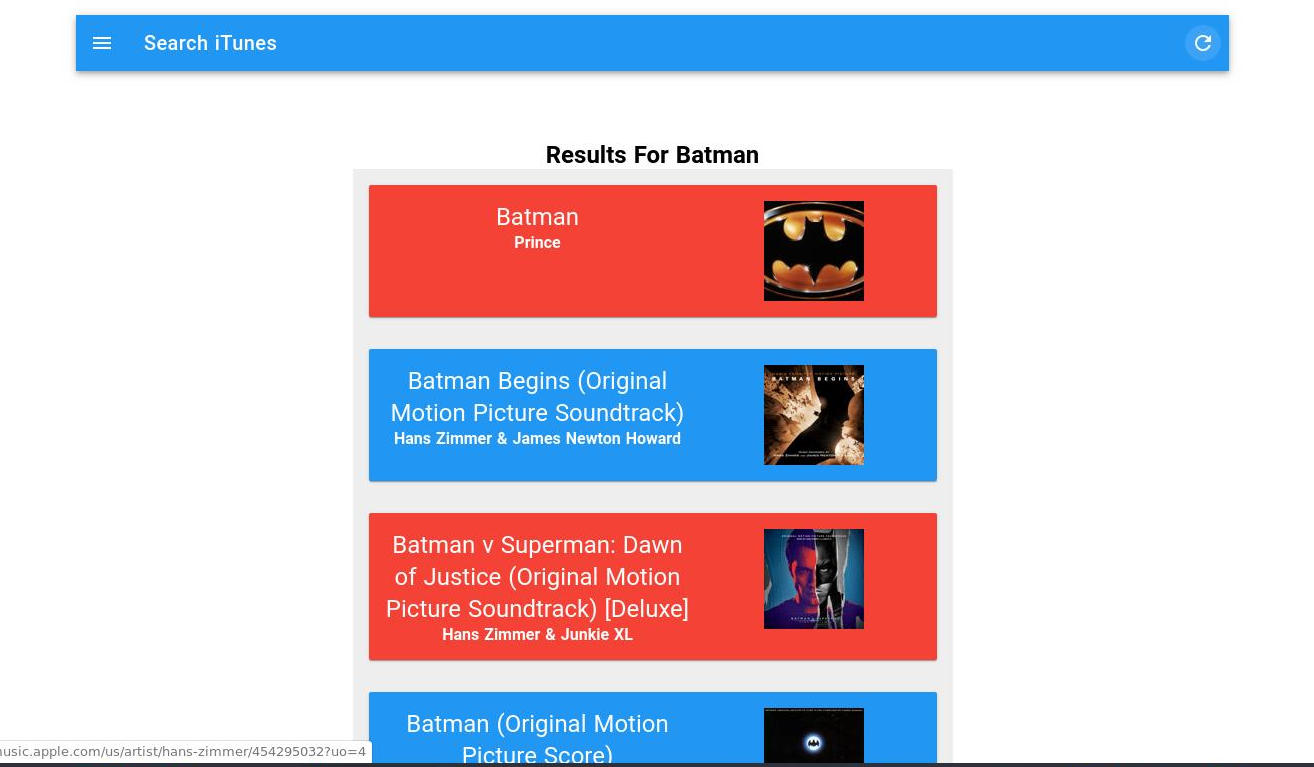
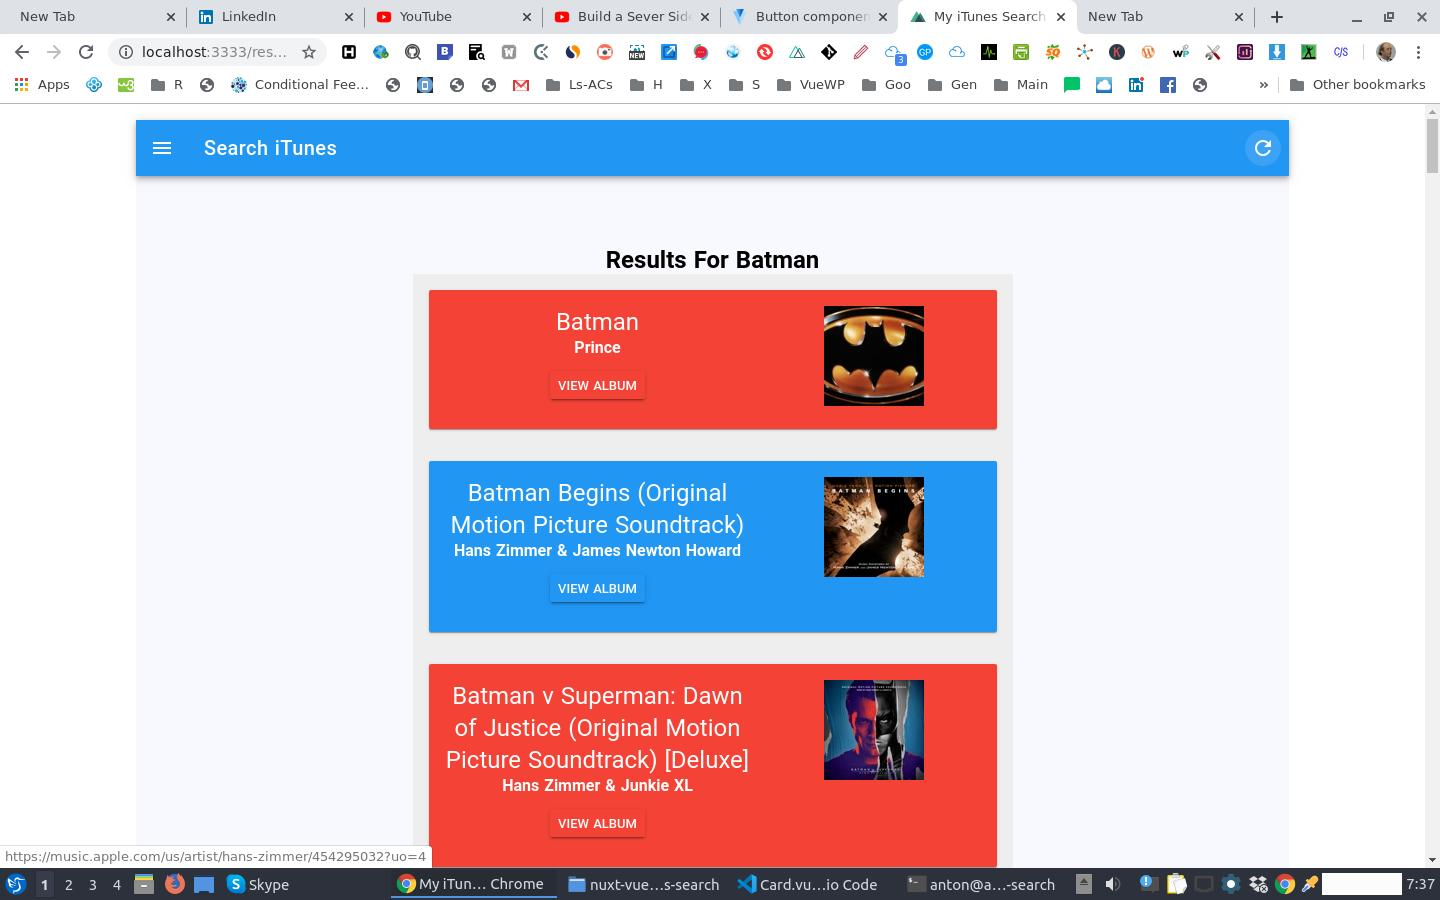
Update

diff --git a/components/Card.vue b/components/Card.vue
@@ -19,6 +19,9 @@
                     <h2 class="headline">{{title}}</h2>
                     <h4>{{artistName}}</h4>
                   </div>
+              <div class="my-2">
+              <v-btn class="white--text" target="_blank" :href="url" text small>View Album</v-btn>
+                </div>
                 </v-flex>
                 <v-flex xs5>
                     <v-card-media
